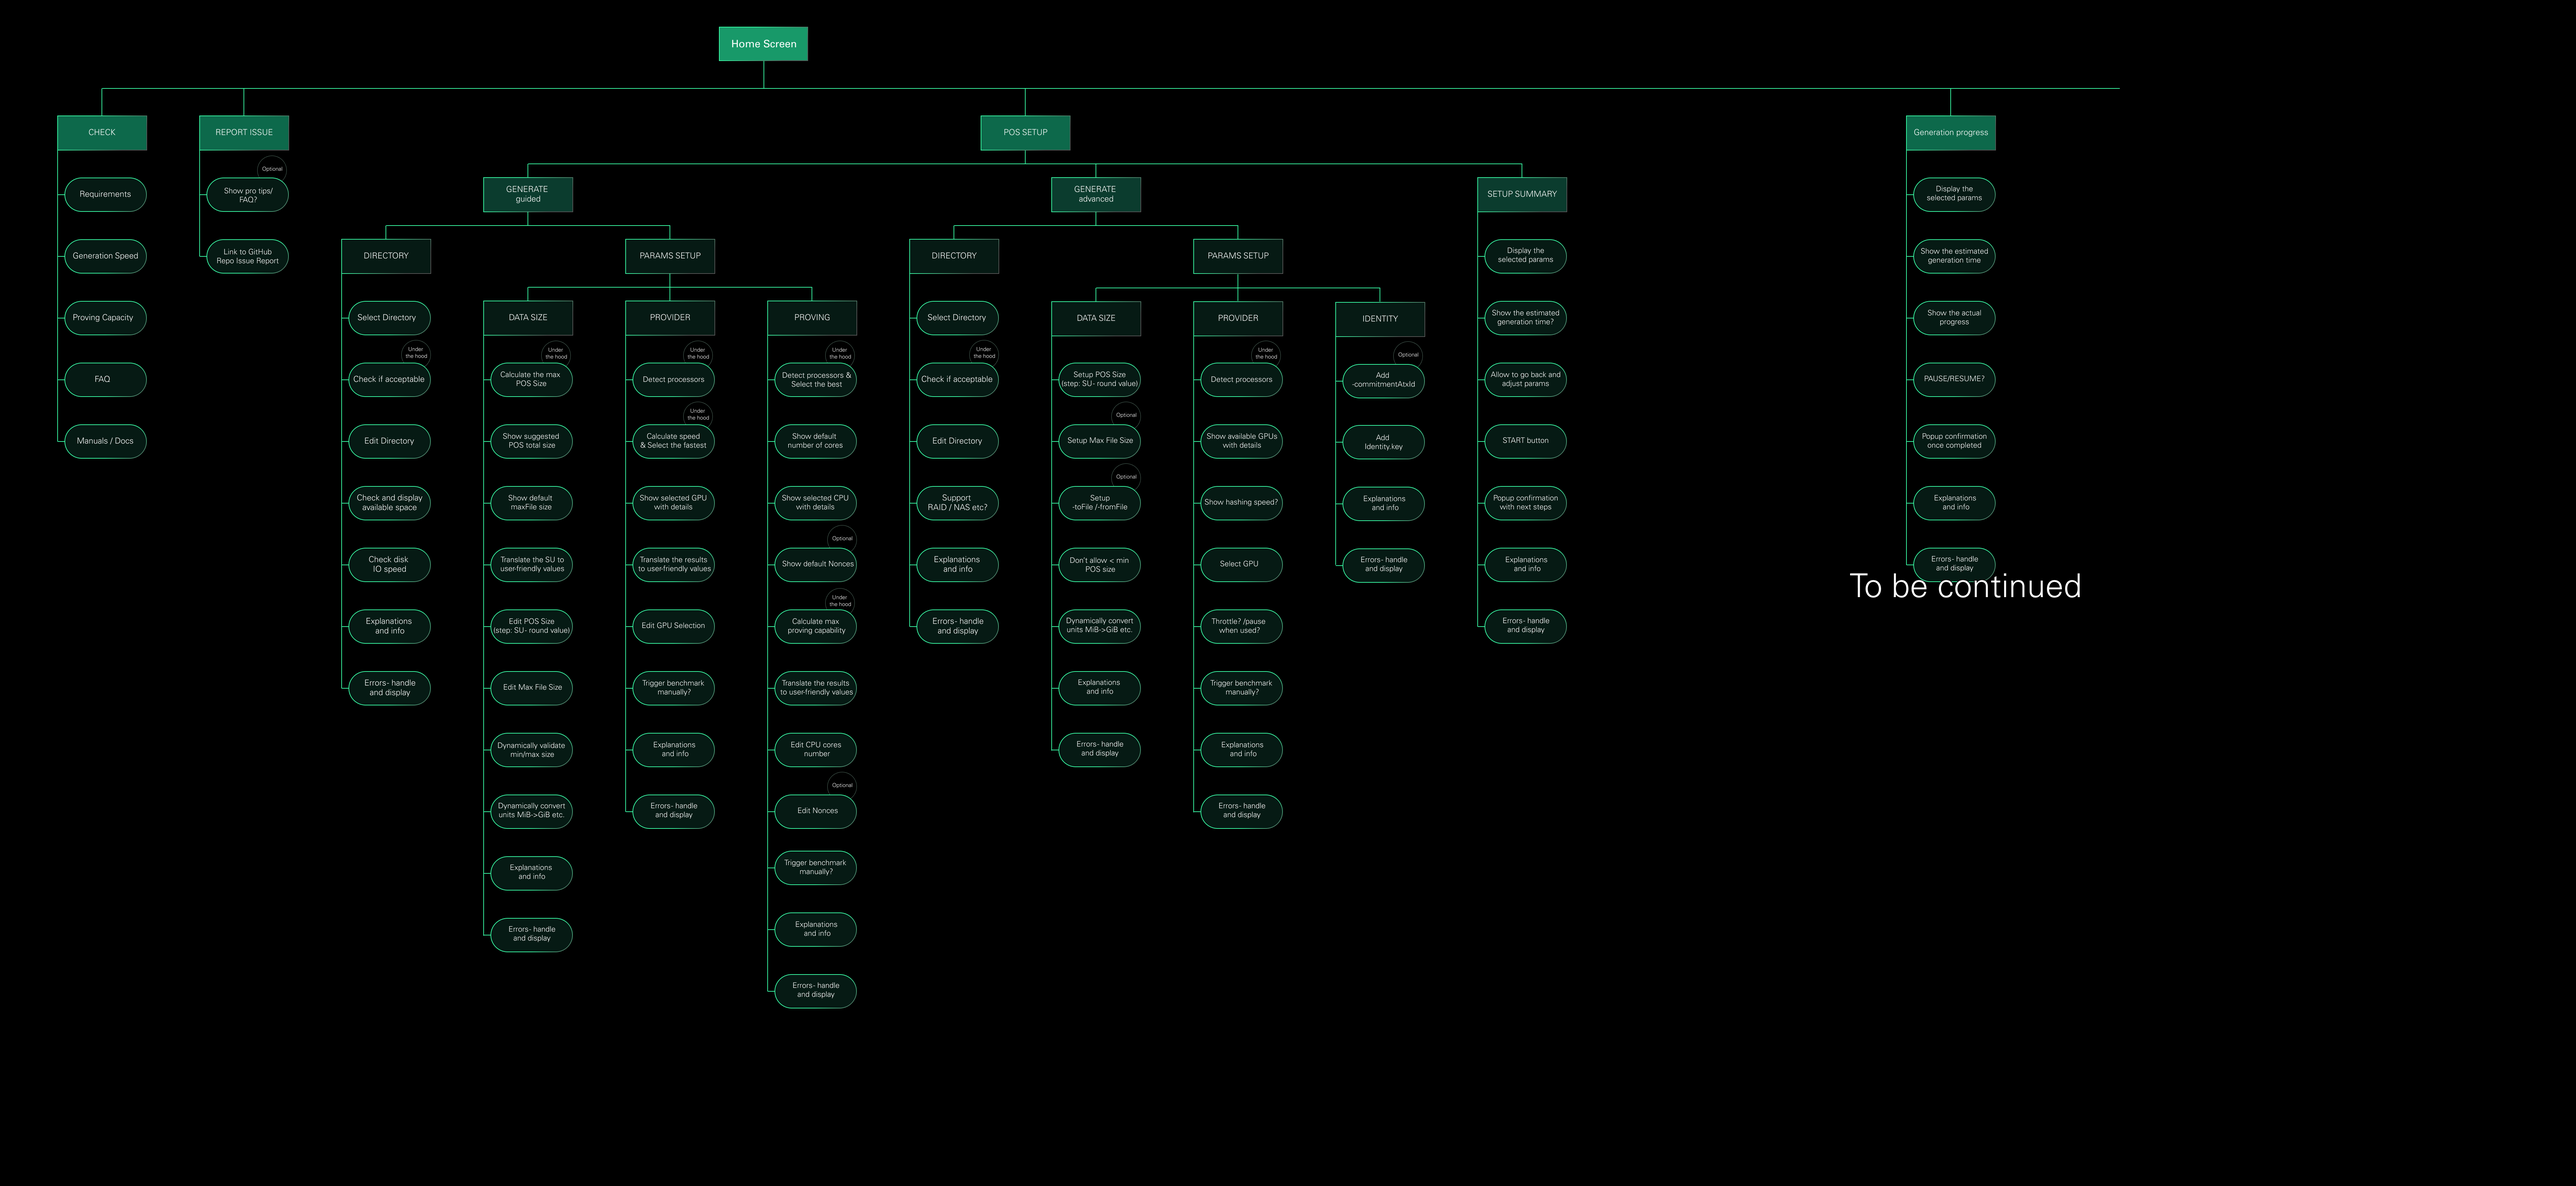
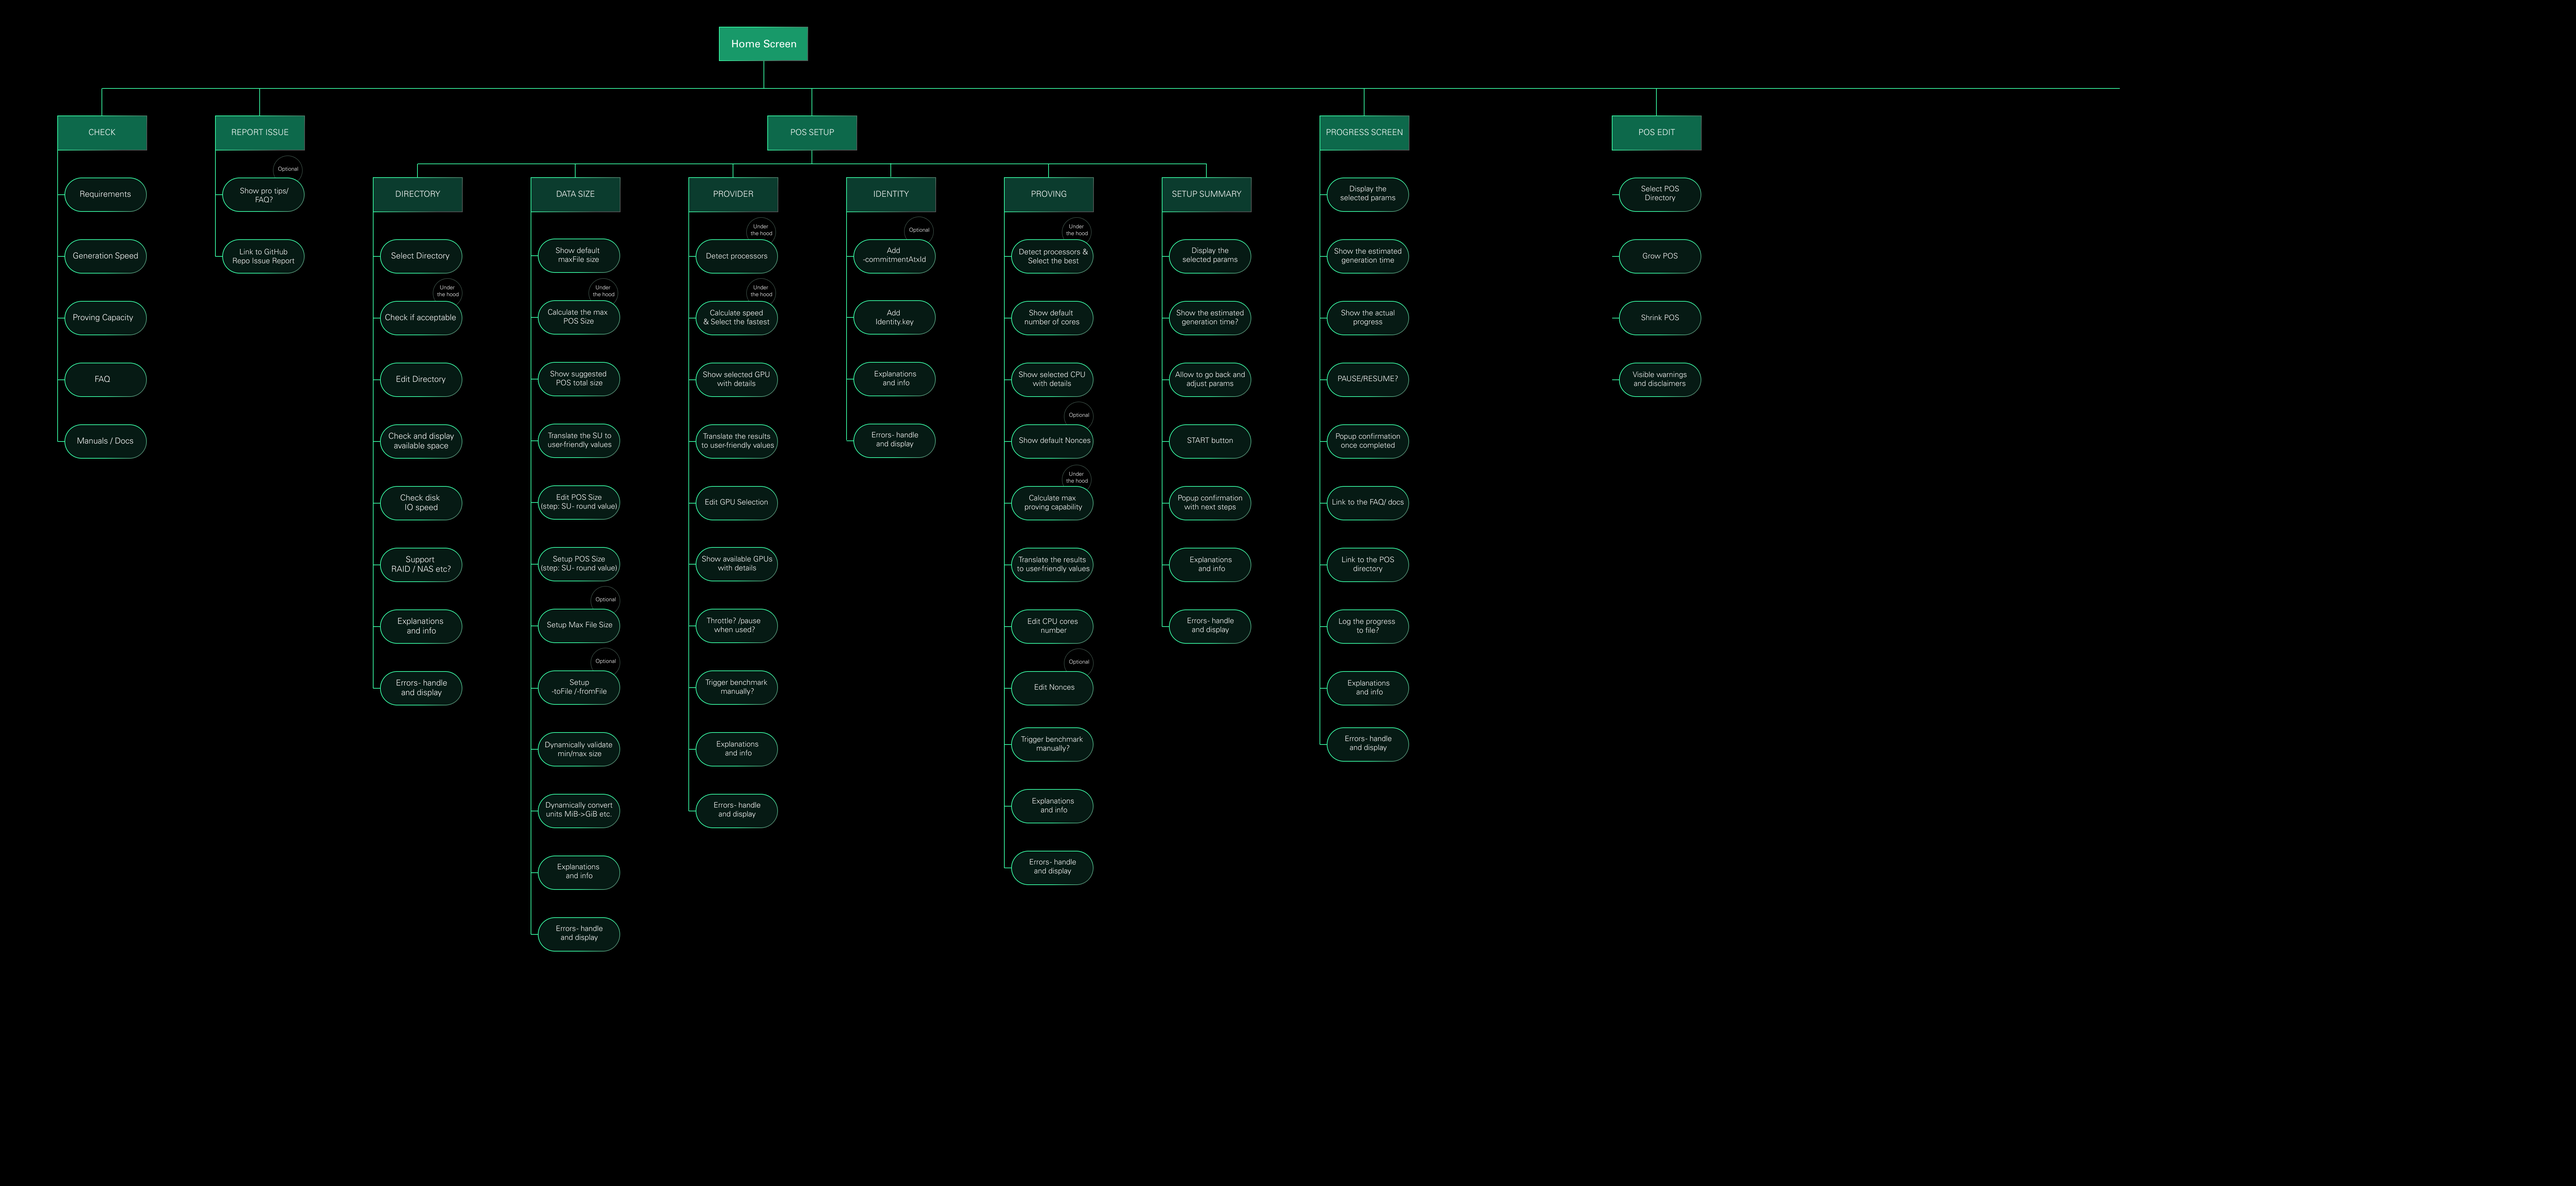
updated sitemap -WIP

Changed region(s): [[0.0623, 0.0936, 0.6855, 0.874], [0.7166, 0.0936, 0.8101, 0.4994]]

diff --git a/UX/Notes.md b/UX/Notes.md
@@ -13,4 +13,4 @@ Figma file accessible under this link: [Init app sitemap
 
 Each explanations and info to put as well as the errors to cover will be added in detail later on.
 
-![Sitemap](sitemap.png)
+![Sitemap](Sitemap.png)
